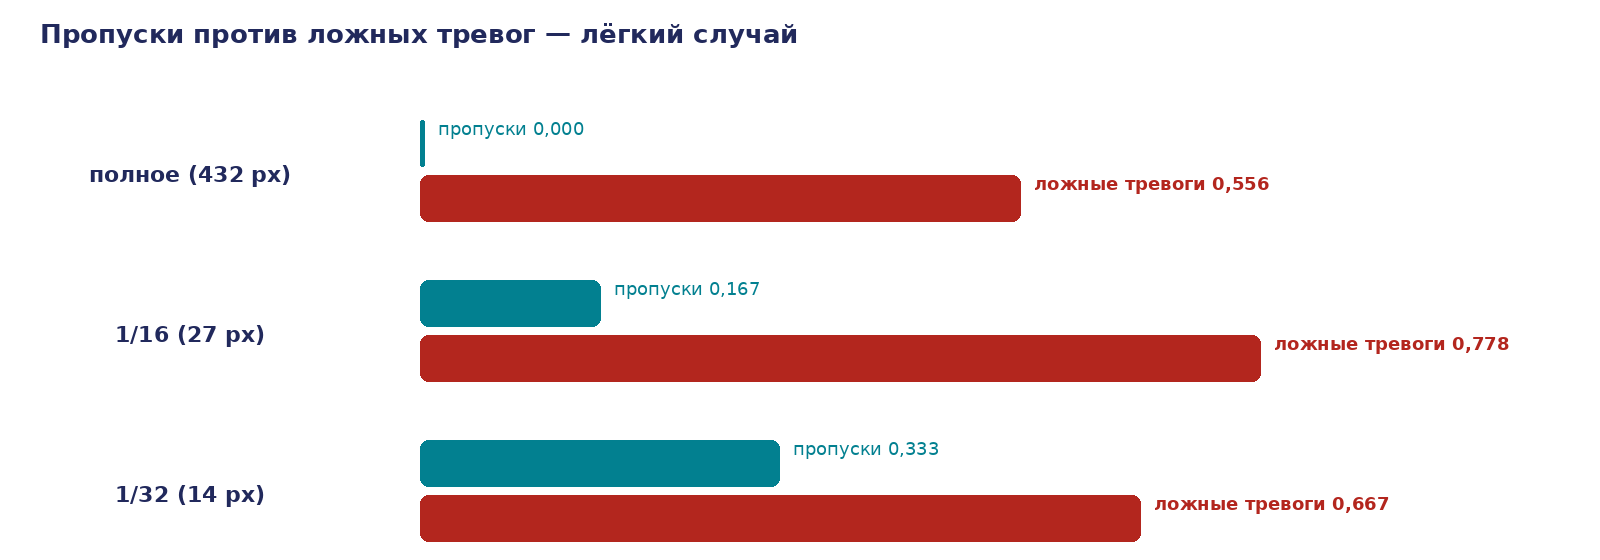
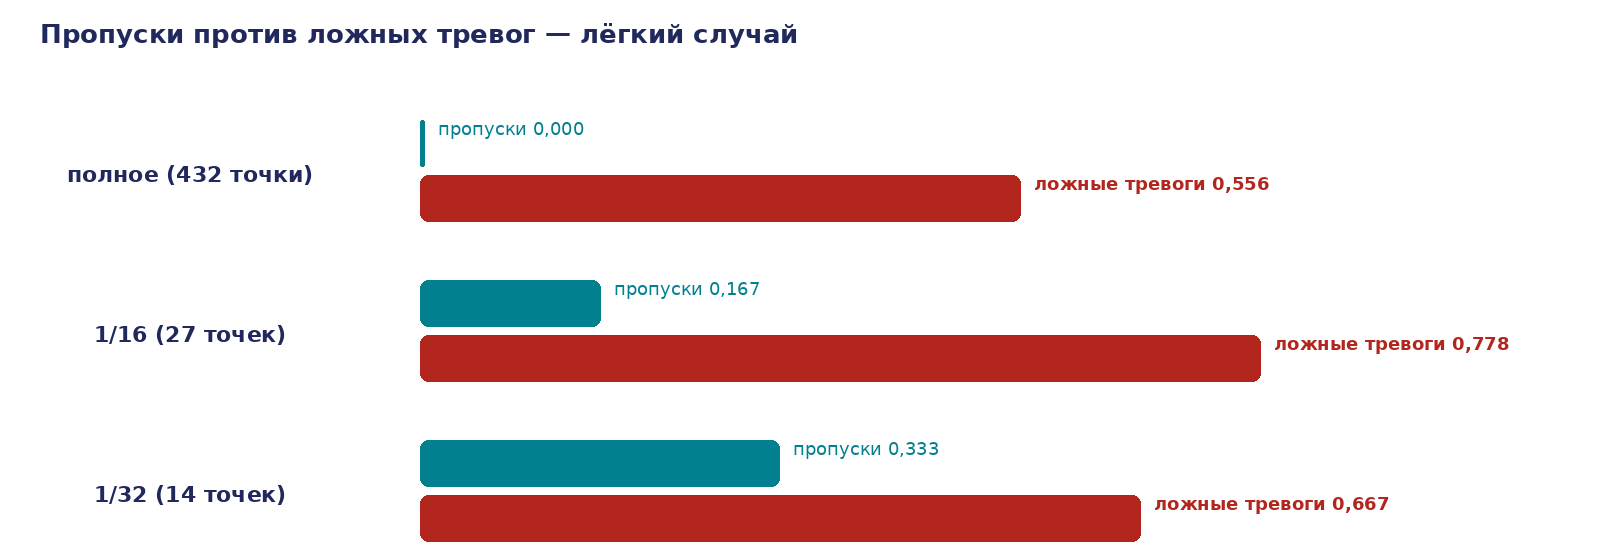
fix(sem-12): drop Latin "px" from k1-fp-miss-chart.png row labels (#351)
Row labels now read «432 точки», «27 точек», «14 точек» (correct
Russian numeral agreement) instead of «432 px», «27 px», «14 px» —
the px abbreviation can't be spoken aloud on a Russian-language slide.
Re-rendered k1-fp-miss-chart.png and visually confirmed px is gone.

Changed region(s): [[0.0625, 0.85, 0.1875, 0.9107], [0.0312, 0.2732, 0.2188, 0.3339], [0.0625, 0.5768, 0.1875, 0.6375]]

diff --git a/library/seminars/sem-12/rendered/make_figures_k1.py b/library/seminars/sem-12/rendered/make_figures_k1.py
@@ -315,9 +315,9 @@ def k1_fp_miss_chart():
     # полном разрешении, 432/16≈27 px, 432/32≈14 px) — не ключи JSON
     # (`full`/`sixteenth`/`thirtysecond`), которые были нарисованы раньше.
     data = [
-        ("полное (432 px)", 0.000, 0.556),
-        ("1/16 (27 px)", 0.167, 0.778),
-        ("1/32 (14 px)", 0.333, 0.667),
+        ("полное (432 точки)", 0.000, 0.556),
+        ("1/16 (27 точек)", 0.167, 0.778),
+        ("1/32 (14 точек)", 0.333, 0.667),
     ]
     chart_x, chart_w = 420, 1080
     bar_h, gap = 110, 50
